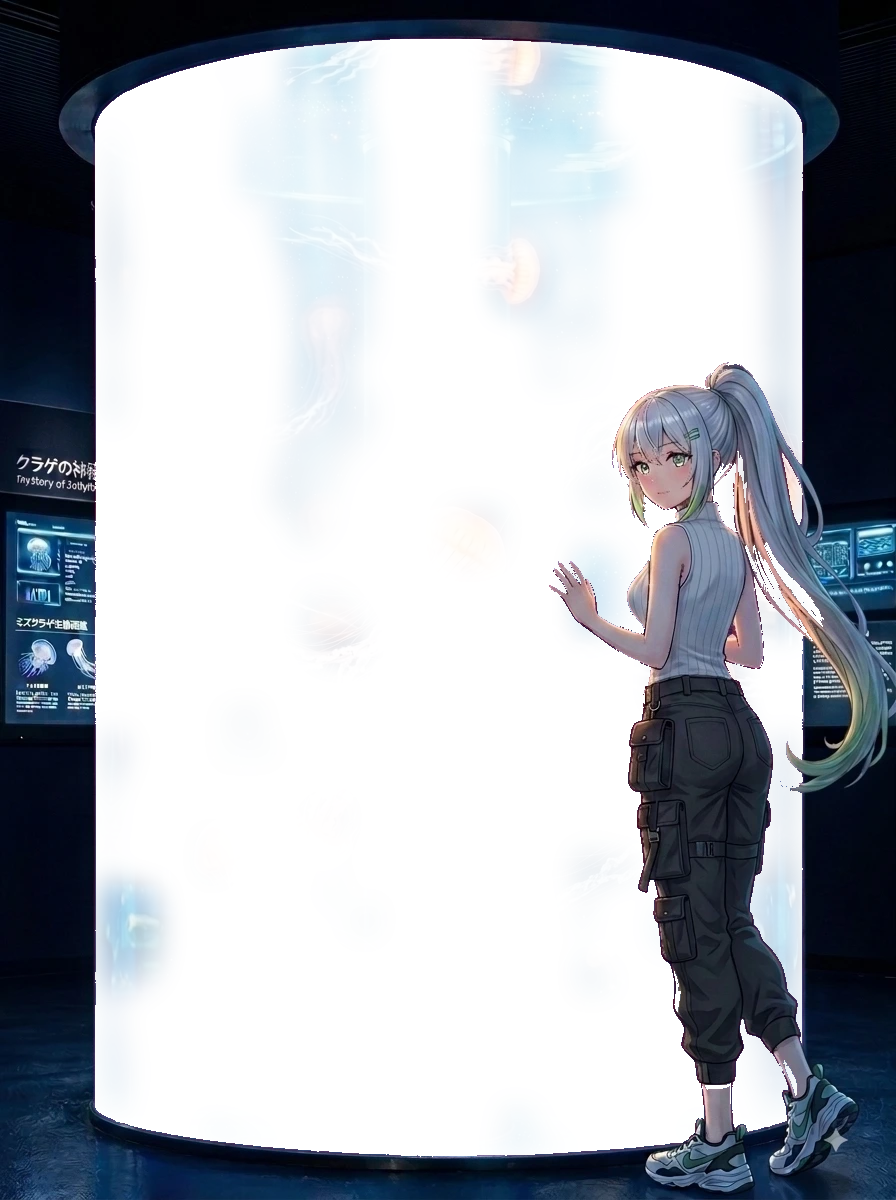
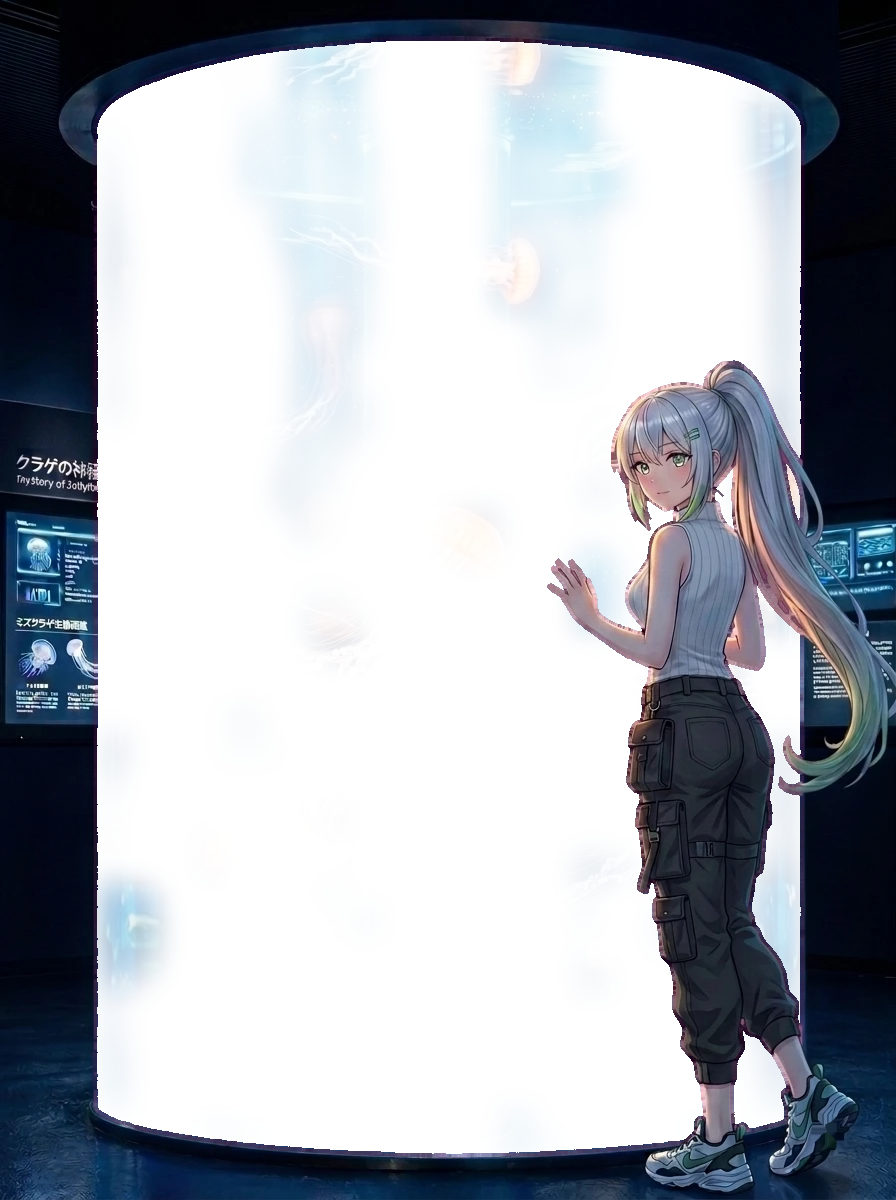
Key on the flood itself, not on everything near it
Her ponytail runs silver through peach to pink, and pink hair is near the key:
sampled through the nape, hair sits 55-110 away while the flood between the
strands sits under 12. The tolerance was 60, so the key was eating the strands
and the earlier size filter was then papering the gaps over — her nape never
opened, and her legs and sleeve carried a magenta seam.

The tolerance is now 26, tight to a flood that is one flat colour. What that
loses — the antialiased boundary, which is half flood and half girl — is
handled where it belongs: those pixels are pulled out of the matte and
inpainted from their clean neighbours, so her outline is painted in her own
colours and the water starts just outside it.

Also removes the sparkle decoration by her right shoe, detected on its own
brightness rather than boxed out, so the shoe beside it is untouched.

Claude-Session: https://claude.ai/code/session_01HhFkSLxzDix1Dem2NpKKk9

diff --git a/scripts/plate.js b/scripts/plate.js
@@ -45,18 +45,18 @@ const KEY = [152, 59, 114];
 /**
  * Everything within this distance of the key is water.
  *
- * Binary rather than a ramp, for the reason sakura found: a narrow tolerance
- * leaves a magenta rim wherever an antialiased edge meets the flood, and
- * nothing partially-keyed survives to be un-mixed.
+ * Tight, and it has to be, because of her hair. The ponytail runs from silver
+ * through peach to pink, and pink hair is *near* the flood: sampled through the
+ * nape and the ponytail, hair pixels sit 55 to 110 from the key while the flood
+ * showing between the strands sits under 12. A tolerance loose enough to be
+ * comfortable — the 60 this started at, let alone sakura's 105 — eats the
+ * strands and hands back a ponytail full of ragged holes.
  *
- * The value is what the girl allows. She is the tightest constraint in the
- * picture, not the tank: her hair sits 87 from the key and her shirt 85, so at
- * sakura's 105 she comes out full of holes. At 60 both survive with room, and
- * what is left over — the parts of her arm and socks that are *literally* the
- * flood colour, 5 and 12 away, where the hand key ran over her — is dealt with
- * by the component filter below rather than by the threshold.
+ * The flood is a single flat colour, so it does not need any room; what needs
+ * room is the antialiased boundary between it and everything else, and that is
+ * handled by the fringe pass below rather than by widening this.
  */
-const KEY_TOLERANCE = 60;
+const KEY_TOLERANCE = 26;
 
 const dist = (r, g, b) => Math.hypot(r - KEY[0], g - KEY[1], b - KEY[2]);
 
@@ -149,6 +149,56 @@ async function main() {
     if (dist(keyed.data[i * C], keyed.data[i * C + 1], keyed.data[i * C + 2]) < KEY_TOLERANCE) water[i] = 1;
   }
 
+  // --- the fringe -----------------------------------------------------------
+  //
+  // A hand key over an antialiased edge leaves a band of pixels that are part
+  // flood and part girl. At a threshold of 60 the ones past halfway are called
+  // water, so the matte eats about a pixel into her all the way round — which
+  // on screen is a magenta seam tracing her legs, her sleeve and every fold of
+  // her trousers. It reads as her being full of holes, and no threshold fixes
+  // it: moving the cut just moves which half of the band is wrong.
+  //
+  // So the band is taken out of the argument. The water is pulled back a pixel,
+  // and every pixel next to it carrying a magenta cast — (r+b)/2 - g well above
+  // what anything in this picture has of its own — is inpainted from its clean
+  // neighbours. Her outline ends up painted in her own colours, and the water
+  // starts just outside it.
+  const cast = (i) => (keyed.data[i * C] + keyed.data[i * C + 2]) / 2 - keyed.data[i * C + 1];
+  const fringe = new Uint8Array(W * H);
+  for (let y = 0; y < H; y++) {
+    for (let x = 0; x < W; x++) {
+      const i = y * W + x;
+      if (water[i]) continue;
+      let nearWater = false;
+      for (let dy = -2; dy <= 2 && !nearWater; dy++) {
+        for (let dx = -2; dx <= 2; dx++) {
+          const xx = x + dx, yy = y + dy;
+          if (xx < 0 || yy < 0 || xx >= W || yy >= H) continue;
+          if (water[yy * W + xx]) { nearWater = true; break; }
+        }
+      }
+      if (nearWater && cast(i) > 28) fringe[i] = 1;
+    }
+  }
+  // ...and the outermost ring of the water itself, which is the other half of
+  // the same band.
+  const eroded = new Uint8Array(water);
+  for (let y = 0; y < H; y++) {
+    for (let x = 0; x < W; x++) {
+      const i = y * W + x;
+      if (!water[i]) continue;
+      for (const q of [x > 0 ? i - 1 : -1, x < W - 1 ? i + 1 : -1, y > 0 ? i - W : -1, y < H - 1 ? i + W : -1]) {
+        if (q >= 0 && !water[q]) { eroded[i] = 0; break; }
+      }
+    }
+  }
+  let fringePixels = 0;
+  for (let i = 0; i < W * H; i++) {
+    if (water[i] && !eroded[i]) { water[i] = 0; fringe[i] = 1; }
+    if (fringe[i]) fringePixels++;
+  }
+  console.log(`fringe       ${fringePixels} px of half-keyed edge inpainted`);
+
   // Only the flood itself, not every patch of that colour.
   //
   // The hand key ran over the edges of the girl — antialiased pixels along her
@@ -165,7 +215,7 @@ async function main() {
   // ended up behind her hip. They are inpainted from their surroundings below.
   const MIN_COMPONENT = 100;
   const seen = new Uint8Array(W * H);
-  const inpaint = new Uint8Array(W * H);
+  const inpaint = Uint8Array.from(fringe);
   let droppedPixels = 0, droppedIslands = 0;
   for (let start = 0; start < W * H; start++) {
     if (!water[start] || seen[start]) continue;
@@ -218,6 +268,30 @@ async function main() {
     coverage[i] = Math.min(1, Math.max(0, (opened[i] - base[i] - FLOOR) / (FULL - FLOOR)));
   }
   const cover2 = blurXY(coverage, W, H, 13);
+
+  // The sparkle on the floor by her right shoe. It is a decoration the artwork
+  // came with, not part of the room, and it is the one thing in the frame that
+  // has no business being in a photograph of an aquarium. Detected rather than
+  // boxed out: inside its own neighbourhood it is the only thing brighter than
+  // 90 (the wet floor there sits at 13-52 and the star's centre at 155), so a
+  // threshold finds it without touching the shoe beside it.
+  let sparkle = 0;
+  for (let y = 1118; y < 1168; y++) {
+    for (let x = 816; x < 870; x++) {
+      const i = y * W + x;
+      const L = 0.2126 * keyed.data[i * C] + 0.7152 * keyed.data[i * C + 1] + 0.0722 * keyed.data[i * C + 2];
+      if (L > 90) {
+        // With a margin, so the star's own soft edge goes with it.
+        for (let dy = -3; dy <= 3; dy++) {
+          for (let dx = -3; dx <= 3; dx++) {
+            const q = (y + dy) * W + (x + dx);
+            if (q >= 0 && q < W * H && !inpaint[q] && !water[q]) { inpaint[q] = 1; sparkle++; }
+          }
+        }
+      }
+    }
+  }
+  console.log(`sparkle      ${sparkle} px removed from the floor`);
 
   // Fill the dropped islands from their surroundings, one dilation at a time,
   // so what shows there is her skin and her sock rather than the key.
